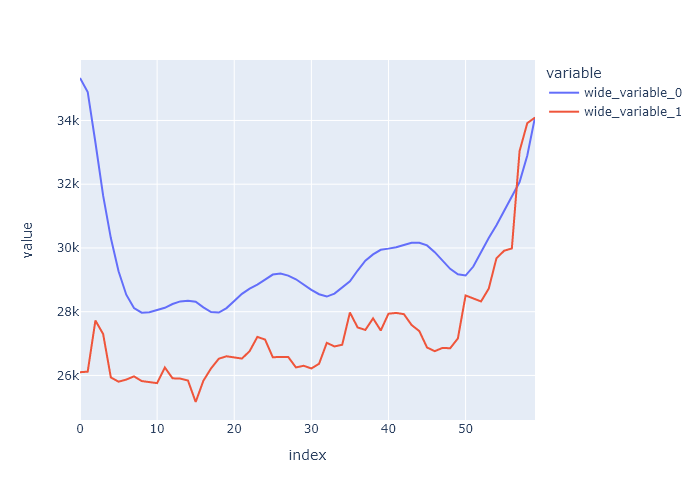
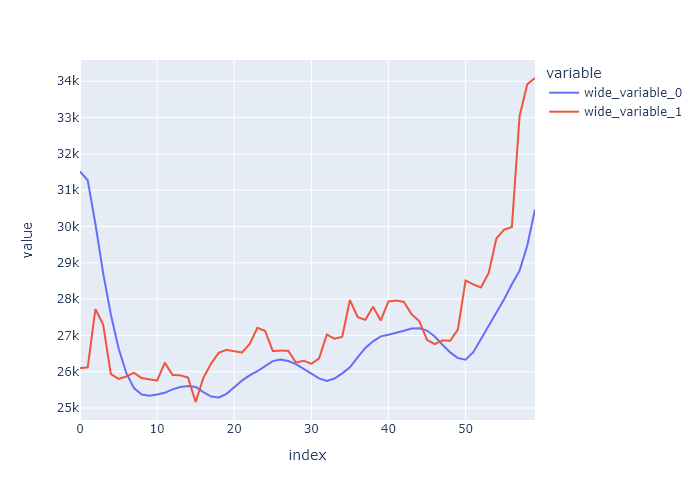
Add: Predict module to UI

diff --git a/temp.py b/temp.py
@@ -60,99 +60,100 @@ try:
     replace_comma(df)
 except Exception:
     print(Exception)
-#Add new column ['Tomorrow'] - Note: Make no impact
-df["Tomorrow"] = df["Price"].shift(-1)
 
-#prep data for training
-scaler = MinMaxScaler(feature_range=(0,1))
-scaled_data = scaler.fit_transform(df['Price'].values.reshape(-1,1))
+def run(optimizer,loss,epoch,batch_size):
+    #Add new column ['Tomorrow'] - Note: Make no impact
+    df["Tomorrow"] = df["Price"].shift(-1)
 
-#Set how many data to test-train (will recalculate)
-prediction_days = 100
+    #prep data for training
+    scaler = MinMaxScaler(feature_range=(0,1))
+    scaled_data = scaler.fit_transform(df['Price'].values.reshape(-1,1))
 
-#training data
-x_train = []        #Input data
-y_train = []        #Target data
+    #Set how many data to test-train (will recalculate)
+    prediction_days = 100
 
-#Set which data will be used for training
-for x in range(prediction_days, len(scaled_data)):
-    x_train.append(scaled_data[x-prediction_days:x,0])
-    y_train.append(scaled_data[x,0])
+    #training data
+    x_train = []        #Input data
+    y_train = []        #Target data
 
-#Finish prepare data
-x_train, y_train = np.array(x_train), np.array(y_train)
-x_train = np.reshape(x_train,(x_train.shape[0], x_train.shape[1],1))
+    #Set which data will be used for training
+    for x in range(prediction_days, len(scaled_data)):
+        x_train.append(scaled_data[x-prediction_days:x,0])
+        y_train.append(scaled_data[x,0])
 
-#build model
-model = Sequential()
+    #Finish prepare data
+    x_train, y_train = np.array(x_train), np.array(y_train)
+    x_train = np.reshape(x_train,(x_train.shape[0], x_train.shape[1],1))
 
-model.add(LSTM(units=50, return_sequences=True, input_shape = (x_train.shape[1],1)))
-model.add(Dropout(0.2))
-model.add(LSTM(units=50, return_sequences=True))
-model.add(Dropout(0.2))
-model.add(LSTM(units=50))
-model.add(Dropout(0.2))
-model.add(Dense(units=1))
+    #build model
+    model = Sequential()
 
-
-
-#dicided what optimizer and loss function will be use
-model.compile(optimizer='adam', loss='mean_squared_error')
-
-#Begin training
-model.fit(x_train,y_train,epochs=20,batch_size=32)
+    model.add(LSTM(units=50, return_sequences=True, input_shape = (x_train.shape[1],1)))
+    model.add(Dropout(0.2))
+    model.add(LSTM(units=50, return_sequences=True))
+    model.add(Dropout(0.2))
+    model.add(LSTM(units=50))
+    model.add(Dropout(0.2))
+    model.add(Dense(units=1))
 
 
 
+    #dicided what optimizer and loss function will be use
+    model.compile(optimizer=optimizer, loss=loss)
 
-#Prepare test data
-test_data = df.loc[(df['Date'] > test_start)]
-actual_prices = test_data["Price"]
-total_dataset = pd.concat((df["Price"],test_data["Price"]), axis=0)
-
-
-model_inputs = total_dataset[len(total_dataset) - len(test_data) - prediction_days:].values
-model_inputs = model_inputs.reshape(-1,1)
-model_inputs = scaler.transform(model_inputs)
-
-x_test = []
-
-for x in range(prediction_days, len(model_inputs)):
-    x_test.append(model_inputs[x-prediction_days:x,0])
+    #Begin training
+    model.fit(x_train,y_train,epochs=epoch,batch_size=batch_size)
 
 
-x_test = np.array(x_test)
-x_test = np.reshape(x_test, (x_test.shape[0], x_test.shape[1],1))
-
-#Testing
-prediction_prices = model.predict(x_test)
-prediction_prices = scaler.inverse_transform(prediction_prices)
 
 
-#Create data for predict
+    #Prepare test data
+    test_data = df.loc[(df['Date'] > test_start)]
+    actual_prices = test_data["Price"]
+    total_dataset = pd.concat((df["Price"],test_data["Price"]), axis=0)
 
-'''
-next_data = [model_inputs[len(model_inputs)+ 1 - prediction_days:len(model_inputs + 1), 0]]
-'''
 
-next_data = [model_inputs[len(model_inputs) - prediction_days:, 0]]
-next_data = np.array(next_data)
-next_data = np.reshape(next_data, (next_data.shape[0], next_data.shape[1],1))
+    model_inputs = total_dataset[len(total_dataset) - len(test_data) - prediction_days:].values
+    model_inputs = model_inputs.reshape(-1,1)
+    model_inputs = scaler.transform(model_inputs)
 
-#Predict
-prediction = model.predict(next_data)
-prediction = scaler.inverse_transform(prediction)
+    x_test = []
 
-#Save date
-a = prediction
-print(f"Prediction tomorow {prediction}")
-actual_prices_float = []
-for i in actual_prices.values:
-    actual_prices_float.append(float(i))
+    for x in range(prediction_days, len(model_inputs)):
+        x_test.append(model_inputs[x-prediction_days:x,0])
 
-data_plot = [to_list2D(prediction_prices),actual_prices_float]
-fig = pl.line(y = data_plot, labels={"prediction_prices","Actual"})
-fig.write_image("fig2.png")
+
+    x_test = np.array(x_test)
+    x_test = np.reshape(x_test, (x_test.shape[0], x_test.shape[1],1))
+
+    #Testing
+    prediction_prices = model.predict(x_test)
+    prediction_prices = scaler.inverse_transform(prediction_prices)
+
+
+    #Create data for predict
+
+    '''
+    next_data = [model_inputs[len(model_inputs)+ 1 - prediction_days:len(model_inputs + 1), 0]]
+    '''
+
+    next_data = [model_inputs[len(model_inputs) - prediction_days:, 0]]
+    next_data = np.array(next_data)
+    next_data = np.reshape(next_data, (next_data.shape[0], next_data.shape[1],1))
+
+    #Predict
+    prediction = model.predict(next_data)
+    prediction = scaler.inverse_transform(prediction)
+
+    #Save date
+    print(f"Prediction tomorow {prediction}")
+    actual_prices_float = []
+    for i in actual_prices.values:
+        actual_prices_float.append(float(i))
+
+    data_plot = [to_list2D(prediction_prices),actual_prices_float]
+    fig = pl.line(y = data_plot, labels={"prediction_prices","Actual"})
+    fig.write_image("fig2.png")
 
 
 

diff --git a/main-UI.py b/main-UI.py
@@ -8,7 +8,7 @@ from PIL import Image
 from tkcalendar import DateEntry
 
 # Set appearance
-
+import temp
 
 tk.set_appearance_mode('dark')
 tk.set_default_color_theme('blue')
@@ -296,11 +296,13 @@ img_label.grid(row=1,column=0,columnspan=2)
 frame_display.grid(row=2,sticky='EW',columnspan = 2)
 
 
-
+# Inside tab predict
 frame_predict = tk.CTkFrame(master=tab_display.tab('Predict'))
+# config column for grid
 frame_predict.columnconfigure(0,weight=1)
 frame_predict.columnconfigure(1,weight=3)
 
+# define variable
 optimizer ='adam'
 loss = 'mean_squared_error'
 batch_size = 20
@@ -310,43 +312,51 @@ var_batch.set('Batch_size: '+str(batch_size))
 var_epoch = StringVar()
 var_epoch.set('Epochs: '+ str(epochs))
 
+# Label Optimizer
+# Label
 optimizer_name = tk.CTkLabel(master=frame_predict,text='Optimizer')
 optimizer_name.pack()
+# function to get choicen optimizer
 def get_optimizer(choice):
     global optimizer
     optimizer = choice
-
+# Option of optimizer
 optimizer_menu = tk.CTkOptionMenu(frame_predict, values=['SGD','RMSprop','Adam',
                                                   'AdamW','Adadelta','Adagrad',
                                                   'Adamax','Adafactor','Nadam','Ftrl'],
                                          command=get_optimizer)
 optimizer_menu.pack()
 
+# Label Loss function
 loss_name = tk.CTkLabel(master=frame_predict,text='Loss')
 loss_name.pack()
 def get_loss(choice):
     global loss
     loss = choice
-
+# option of loss function
 loss_menu = tk.CTkOptionMenu(frame_predict, values=['mean_squared_error','mean_absolute_error',
                                              'mean_absolute_percentage_error',
                                              'mean_squared_logarithmic_error'],
                                          command=get_loss)
 loss_menu.pack()
 
+# Batch size label
+# Function to get batch size
 def get_batch_size(value):
     global batch_size
-    batch_size = np.round(value)
+    batch_size =int(np.round(value))
     var_batch.set('Batch_size '+str(batch_size))
-
-
+# Label
 batch_size_label = tk.CTkLabel(master=frame_predict,textvariable=var_batch)
 batch_size_label.pack()
+# Silder
 batch_size_slider = tk.CTkSlider(frame_predict, from_=20, to=100, command=get_batch_size)
 batch_size_slider.pack()
+
+# Epochs Label
 def get_epochs(value):
     global epochs
-    epochs = np.round(value)
+    epochs =int(np.round(value))
     var_epoch.set('Epochs: '+str(epochs))
 
 epochs_label = tk.CTkLabel(master=frame_predict,textvariable=var_epoch)
@@ -359,7 +369,17 @@ def out():
 
 t = tk.CTkButton(master=frame_predict,command=lambda :out(),text="hitme")
 t.pack()
-
-frame_predict.grid(row=2,sticky='EW',columnspan = 2)
+def run_predict():
+    global optimizer,loss,epochs,batch_size, img_predict
+    temp.run(optimizer, loss, epochs, batch_size)
+    img = tk.CTkImage(light_image=Image.open('fig2.png'), size=(700, 500))
+    img_predict.configure(image=img)
+    img_predict.image = img
+begin = tk.CTkButton(master=frame_predict,text='Run',command=lambda :run_predict())
+begin.pack()
+img_pred = tk.CTkImage(light_image=Image.open('base.jpeg'),size=(700,500))
+img_predict = tk.CTkLabel(master=frame_predict,image=img_pred)
+img_predict.pack()
+frame_predict.pack()
 tab_display.grid(row=2,sticky='EW',columnspan = 2)
 window.mainloop()
